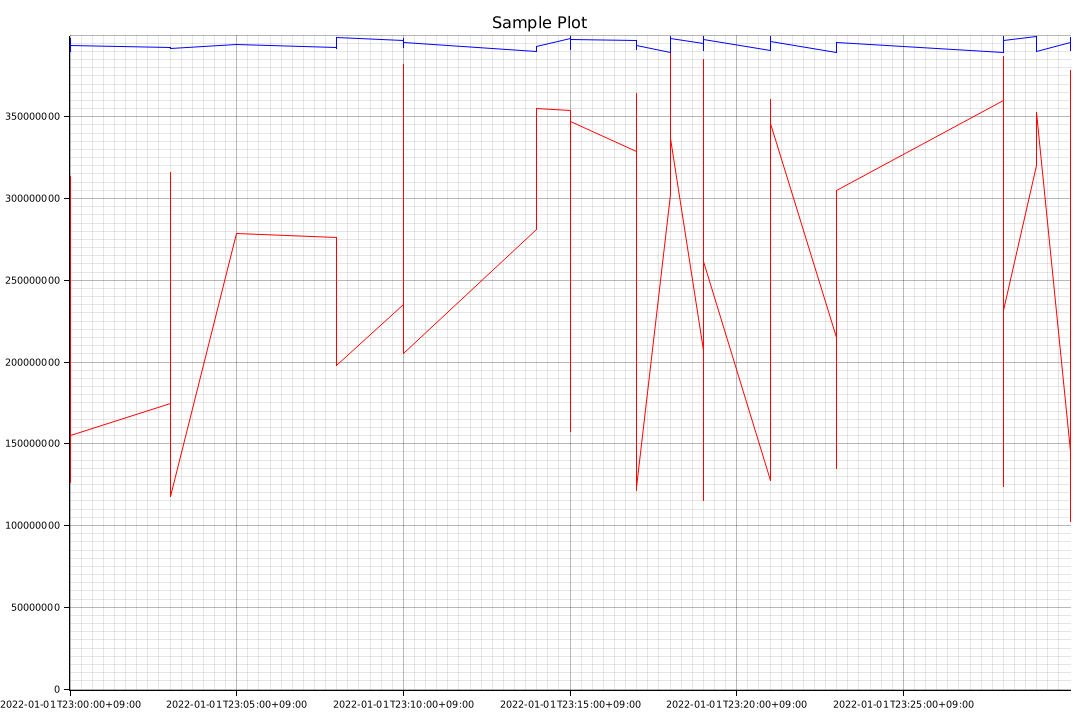
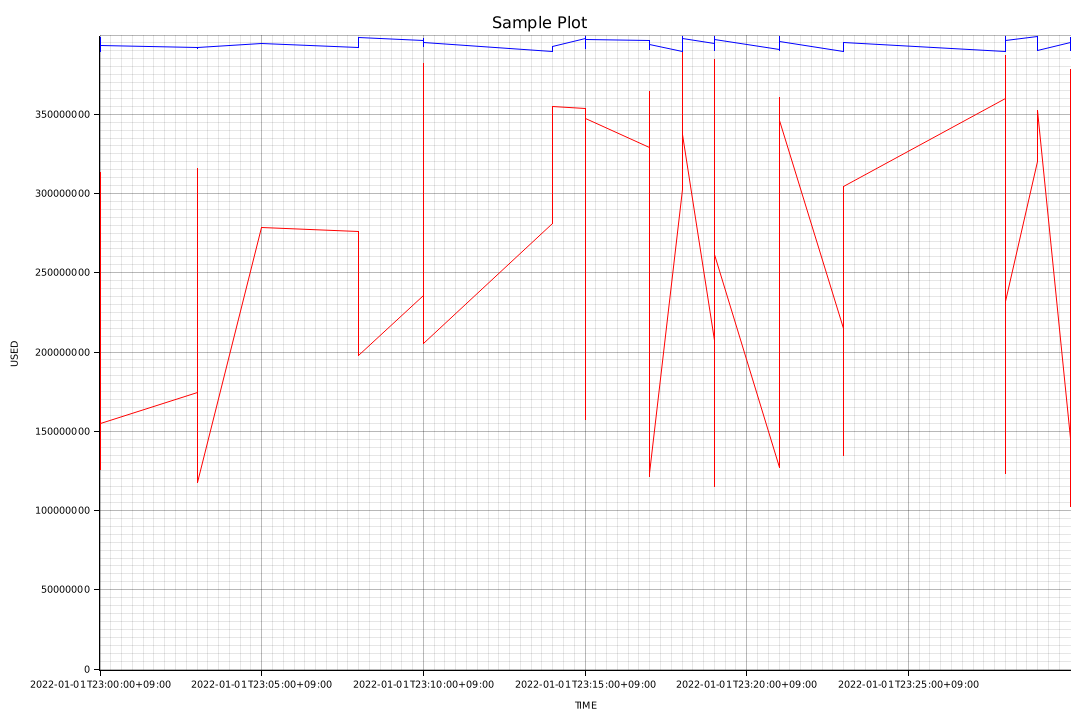
change files

Changed region(s): [[0.0, 0.0306, 1.0, 1.0], [0.0, 0.275, 0.0306, 0.3056]]

diff --git a/basics/app/gct-rs/src/main.rs b/basics/app/gct-rs/src/main.rs
@@ -23,14 +23,10 @@ fn main() -> Result<(), Box<dyn std::error::Error>> {
                       .map(|(_, _, _, y, _ , _)| *y)
                       .collect();
 
-  //println!("{:?}", y_total);
-
   // y軸: 値のVector
   let y_used: Vec<i64> = data.iter()
                       .map(|(_, _, _, _, y , _)| *y)
                       .collect::<Vec<_>>();
-
-  //println!("{:?}", y_used);
 
   /* (2) 描画先の情報を設定 */
   let image_width = 1080;
@@ -40,7 +36,6 @@ fn main() -> Result<(), Box<dyn std::error::Error>> {
       ("plot.png", (image_width, image_height)).into_drawing_area();
   // 背景を白にする
   root.fill(&WHITE)?;
-
 
   /* (3) グラフ全般の設定 */
 
@@ -55,9 +50,9 @@ fn main() -> Result<(), Box<dyn std::error::Error>> {
       // 上下左右全ての余白
       .margin(10)
       // x軸ラベル部分の余白
-      .x_label_area_size(20)
+      .x_label_area_size(40)
       // y軸ラベル部分の余白
-      .y_label_area_size(60)
+      .y_label_area_size(90)
       // x軸とy軸の数値の範囲を指定する
       .build_cartesian_2d(
       // x軸の範囲
@@ -73,7 +68,13 @@ fn main() -> Result<(), Box<dyn std::error::Error>> {
   /* (4) グラフの描画 */
 
   // x軸y軸、グリッド線などを描画
-  chart.configure_mesh().draw()?;
+  chart
+    .configure_mesh()
+    .x_labels(10)
+    .y_labels(10)
+    .x_desc("TIME")
+    .y_desc("USED")
+    .draw()?;
 
   // 折れ線グラフの定義＆描画
   let line_series_used = LineSeries::new(
